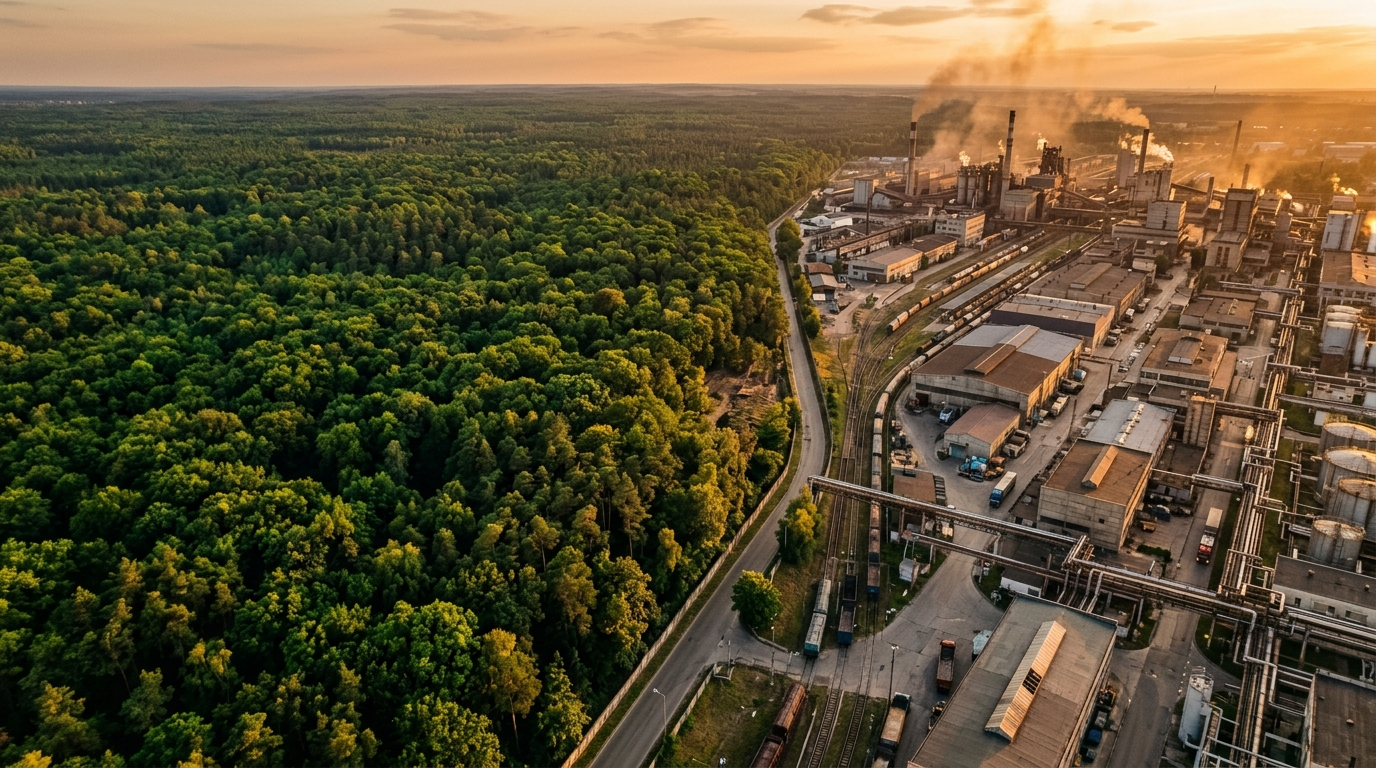
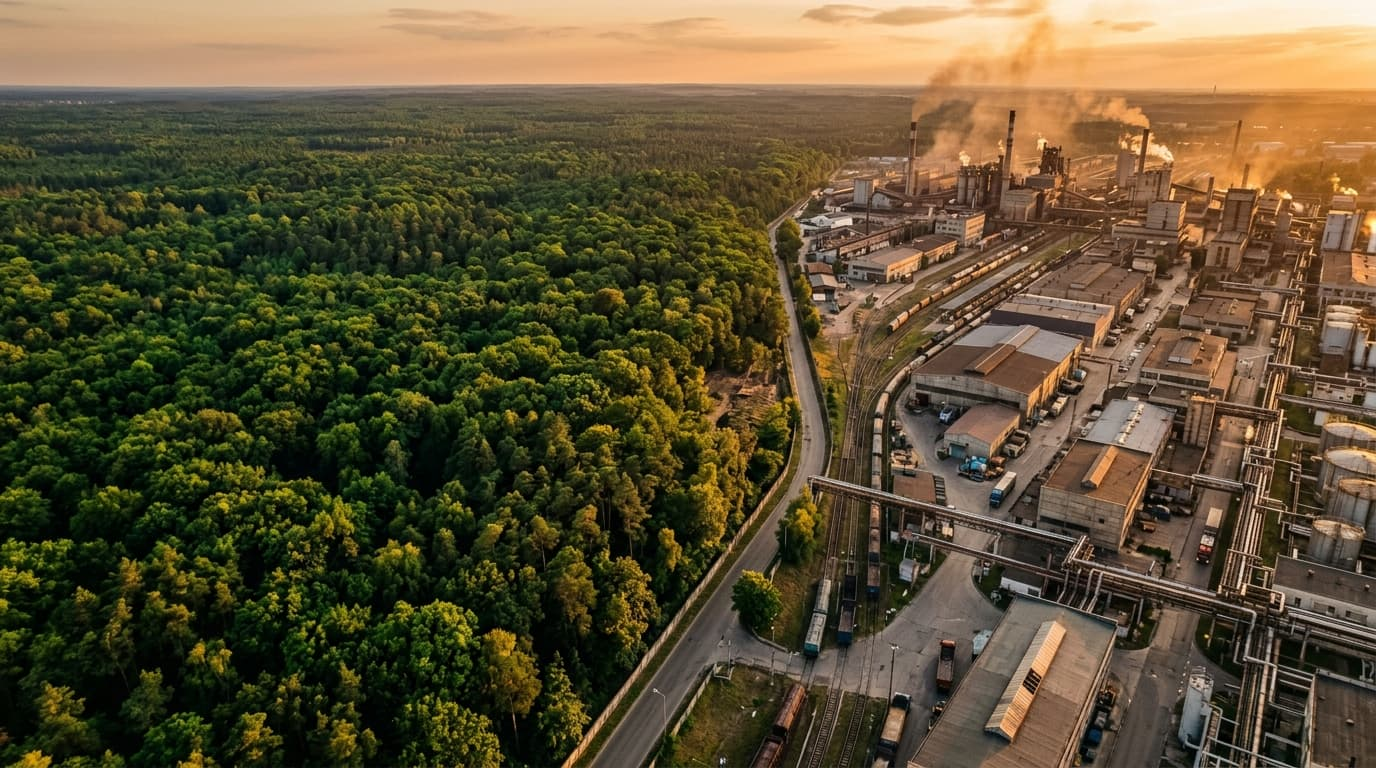
Compress images and add blur placeholders for faster loading
Compress all JPEG images with mozjpeg (21.7MB -> 4.0MB, ~81% reduction). Add blur data URL placeholders to hero images so a blurred preview shows instantly while the full image loads on Vercel.

diff --git a/src/data/services.js b/src/data/services.js
@@ -5,6 +5,7 @@ export const services = [
     shortTitle: 'Environmental Consulting',
     tagline: 'Strategic waste management consulting for sustainable operations',
     heroImage: '/images/services/environmental-consulting.jpeg',
[1 lines of base64/hex data omitted]
     galleryImage: '/images/gallery/environmental-consulting.jpeg',
     description: [
       'Our Environmental Consulting service goes beyond basic waste audits. We partner with your organization to design, implement, and optimize comprehensive waste management and recycling programs tailored to your specific operations.',
@@ -40,6 +41,7 @@ export const services = [
     shortTitle: 'Paper Shredding',
     tagline: 'Secure, certified destruction of confidential documents',
     heroImage: '/images/services/paper-shredding.jpeg',
[1 lines of base64/hex data omitted]
     galleryImage: '/images/gallery/paper-shredding.jpeg',
     description: [
       'Protect your business and your clients with our certified document destruction service. We provide secure, compliant shredding for offices, medical facilities, legal firms, and any organization handling sensitive information.',
@@ -75,6 +77,7 @@ export const services = [
     shortTitle: 'Scrap Metal',
     tagline: 'Turn your scrap into revenue with competitive metal recycling',
     heroImage: '/images/services/scrap-metal.jpeg',
[1 lines of base64/hex data omitted]
     galleryImage: '/images/gallery/scrap-metal.jpeg',
     description: [
       'Your scrap metal has real value. We collect, sort, process, and recycle ferrous and non-ferrous metals from businesses and industrial sites across Atlanta, offering competitive pricing that turns waste into a revenue stream.',
@@ -110,6 +113,7 @@ export const services = [
     shortTitle: 'Electronics Recycling',
     tagline: 'Responsible e-waste disposal with certified data destruction',
     heroImage: '/images/services/electronics-recycling.jpeg',
[1 lines of base64/hex data omitted]
     galleryImage: '/images/gallery/electronics-recycling.jpeg',
     description: [
       'Electronic waste contains both valuable recoverable materials and hazardous substances that demand responsible handling. Our electronics recycling service ensures your devices are processed safely, sustainably, and in full compliance with state and federal regulations.',
@@ -145,6 +149,7 @@ export const services = [
     shortTitle: 'Appliance Recycling',
     tagline: 'Safe, compliant recycling of household and industrial appliances',
     heroImage: '/images/services/appliance-recycling.jpeg',
[1 lines of base64/hex data omitted]
     galleryImage: '/images/gallery/appliance-recycling.jpeg',
     description: [
       'Appliances contain a mix of valuable recyclable metals and hazardous materials that require careful, regulated handling. Our appliance recycling service ensures every unit is processed safely, with full compliance with environmental regulations.',
@@ -180,6 +185,7 @@ export const services = [
     shortTitle: 'Auto Recycling',
     tagline: 'Complete end-of-life vehicle processing and metal recovery',
     heroImage: '/images/services/auto-recycling.jpeg',
[1 lines of base64/hex data omitted]
     galleryImage: '/images/gallery/auto-recycling.jpeg',
     description: [
       'When a vehicle reaches the end of its useful life, responsible recycling recovers valuable materials while preventing environmental contamination from hazardous fluids and components. Our automobile recycling service handles the entire process from tow to final recycling.',

diff --git a/src/app/page.js b/src/app/page.js
@@ -11,6 +11,7 @@ export default function HomePage() {
       <Hero
         height="full"
         backgroundImage="/images/hero-home.jpeg"
[1 lines of base64/hex data omitted]
         eyebrow="ATLANTA'S TRUSTED RECYCLING PARTNER"
         title="Atlanta's Full-Service Industrial Recycling & Scrap Removal"
         subtitle="We collect metal, paper, electronics, and end-of-life equipment from your facility — on your schedule, fully documented."

diff --git a/src/app/services/page.js b/src/app/services/page.js
@@ -14,6 +14,7 @@ export default function ServicesHubPage() {
       <Hero
         height="short"
         backgroundImage="/images/hero-services.jpeg"
[1 lines of base64/hex data omitted]
         breadcrumbs={[
           { label: 'Home', href: '/' },
           { label: 'Services' },

diff --git a/src/components/sections/Hero.jsx b/src/components/sections/Hero.jsx
@@ -31,6 +31,7 @@ export function Hero({
   subtitle,
   eyebrow,
   backgroundImage,
+  blurDataURL,
   height = 'full',
   breadcrumbs,
   buttons,
@@ -107,6 +108,7 @@ export function Hero({
             className="object-cover editorial-image"
             priority
             sizes="(max-width: 640px) 640px, (max-width: 1024px) 1024px, 1920px"
+            {...(blurDataURL && { placeholder: 'blur', blurDataURL })}
           />
         </div>
       )}

diff --git a/src/app/services/[slug]/page.js b/src/app/services/[slug]/page.js
@@ -34,6 +34,7 @@ export default async function ServiceDetailPage({ params }) {
       <Hero
         height="medium"
         backgroundImage={service.heroImage}
+        blurDataURL={service.heroBlurDataURL}
         breadcrumbs={[
           { label: 'Home', href: '/' },
           { label: 'Services', href: '/services' },
